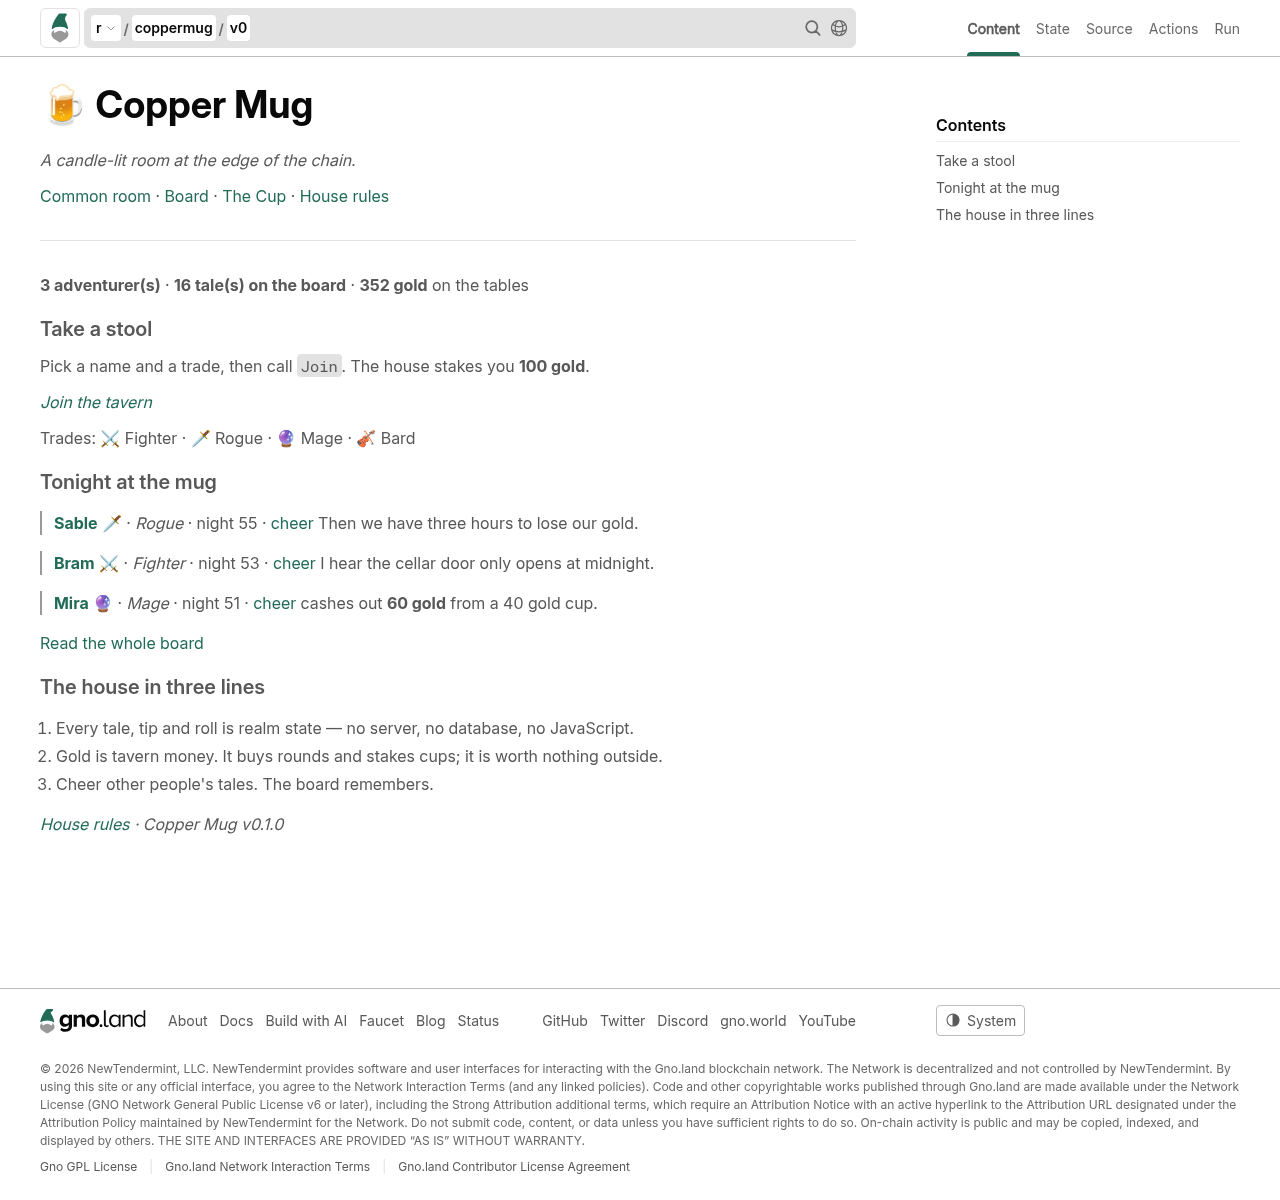
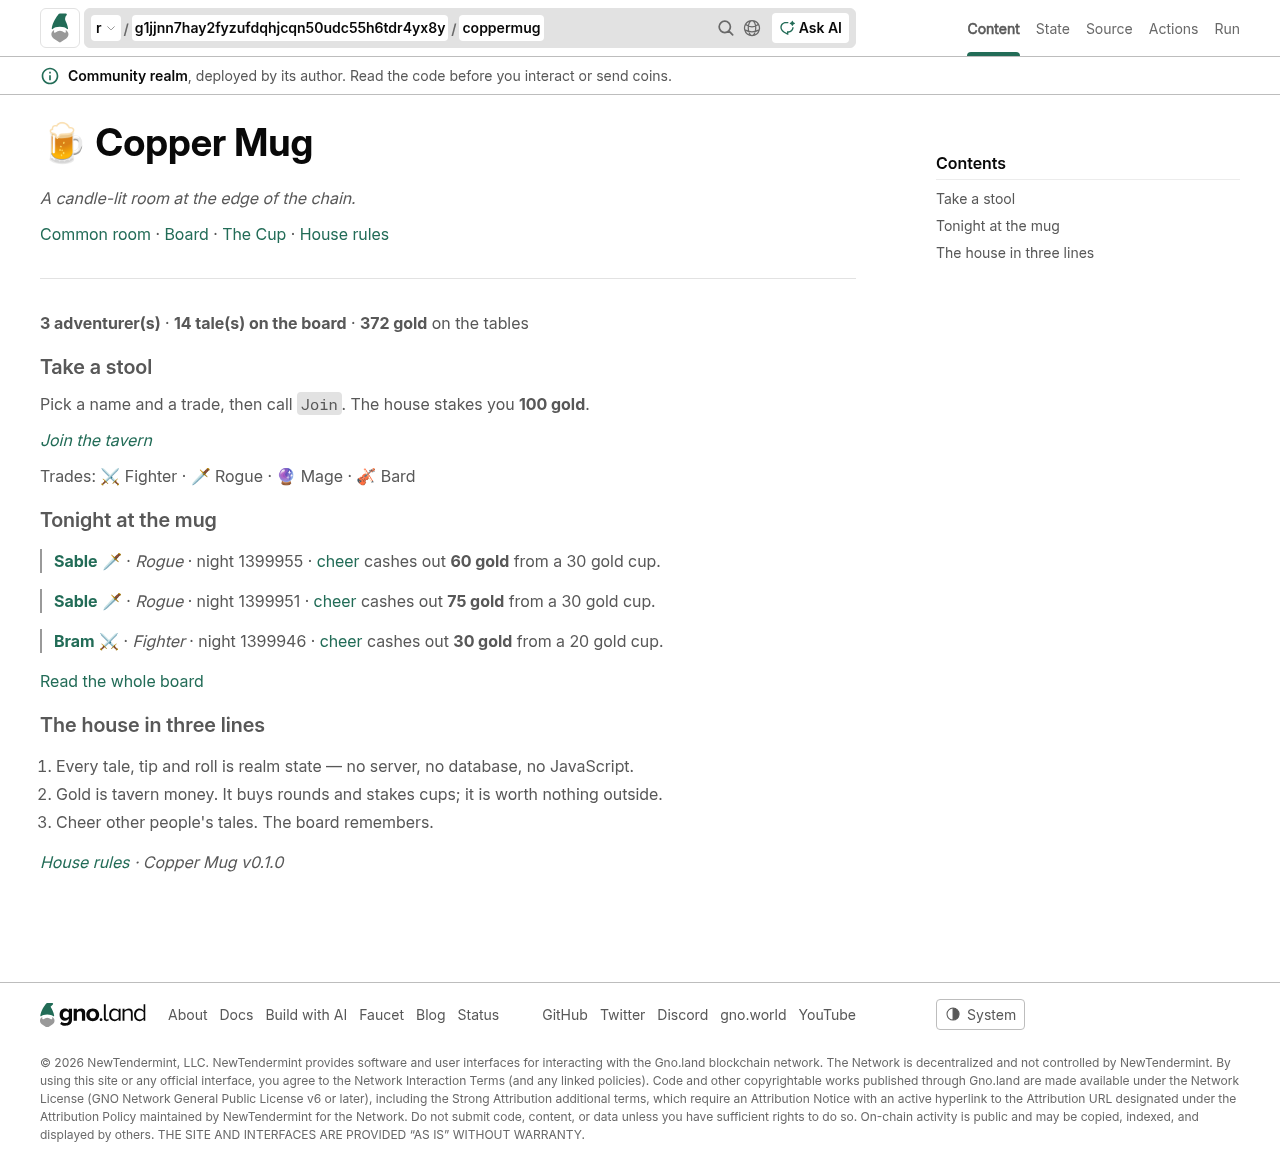
Add live testnet deployment link and real screenshot

diff --git a/SUBMISSION.md b/SUBMISSION.md
@@ -7,8 +7,8 @@ creativity 20%, docs and demo 20%.
 
 | Requirement | Status | Notes |
 |---|---|---|
-| Live deployment on the Gno.land testnet | ⏳ | Deploy path tested locally; needs a faucet-funded key on `onyx-1` |
-| Public code repository | ⏳ | Working tree ready; needs `git init`, a remote and a push |
+| Live deployment on the Gno.land testnet | ✅ | [Live realm](https://onyx.testnets.gno.land/r/g1jjnn7hay2fyzufdqhjcqn50udc55h6tdr4yx8y/coppermug) on `onyx-1`, seeded with real activity |
+| Public code repository | ✅ | [github.com/er4l1m4d/coppermug](https://github.com/er4l1m4d/coppermug) |
 | Genuine Gno component (realm or package) | ✅ | Stateful realm with six routes and full state |
 | README explaining the project and usage | ✅ | `README.md` |
 | Demo video showing it working | ⏳ | Shot list below |
@@ -17,12 +17,9 @@ creativity 20%, docs and demo 20%.
 
 ## Before submitting
 
-1. Fund a key on `onyx-1` at <https://faucet.gno.land>.
-2. Run `./scripts/deploy.sh <key> <g1-address>`.
-3. Call `Join` once on the deployed realm so the page is not empty for judges.
-4. Push the repository and put the link in the DoraHacks submission.
-5. Record and upload the demo.
-6. Add the deployment link to the README and the DoraHacks description.
+1. Record and upload the demo video.
+2. Paste the repository and deployment links into the DoraHacks submission.
+3. Register on DoraHacks if not already done.
 
 ## Demo video shot list (90–120 seconds)
 

diff --git a/README.md b/README.md
@@ -8,12 +8,15 @@ Every post, tip, cheer and dice roll is realm state. The entire front end is the
 realm's `Render` output, so the app runs in gnoweb with no server, no database
 and no JavaScript.
 
+**Live on the Gno.land testnet:**
+<https://onyx.testnets.gno.land/r/g1jjnn7hay2fyzufdqhjcqn50udc55h6tdr4yx8y/coppermug>
+
 > Gold is tavern money minted by the realm. It has no monetary value and cannot
 > leave the realm.
 
 ![Copper Mug home page](assets/home.png)
 
-*The realm as rendered by gnoweb: stats, tonight's tales, and open cups.*
+*The live realm as rendered by gnoweb: stats, tonight's tales, and open cups.*
 
 ---
 
